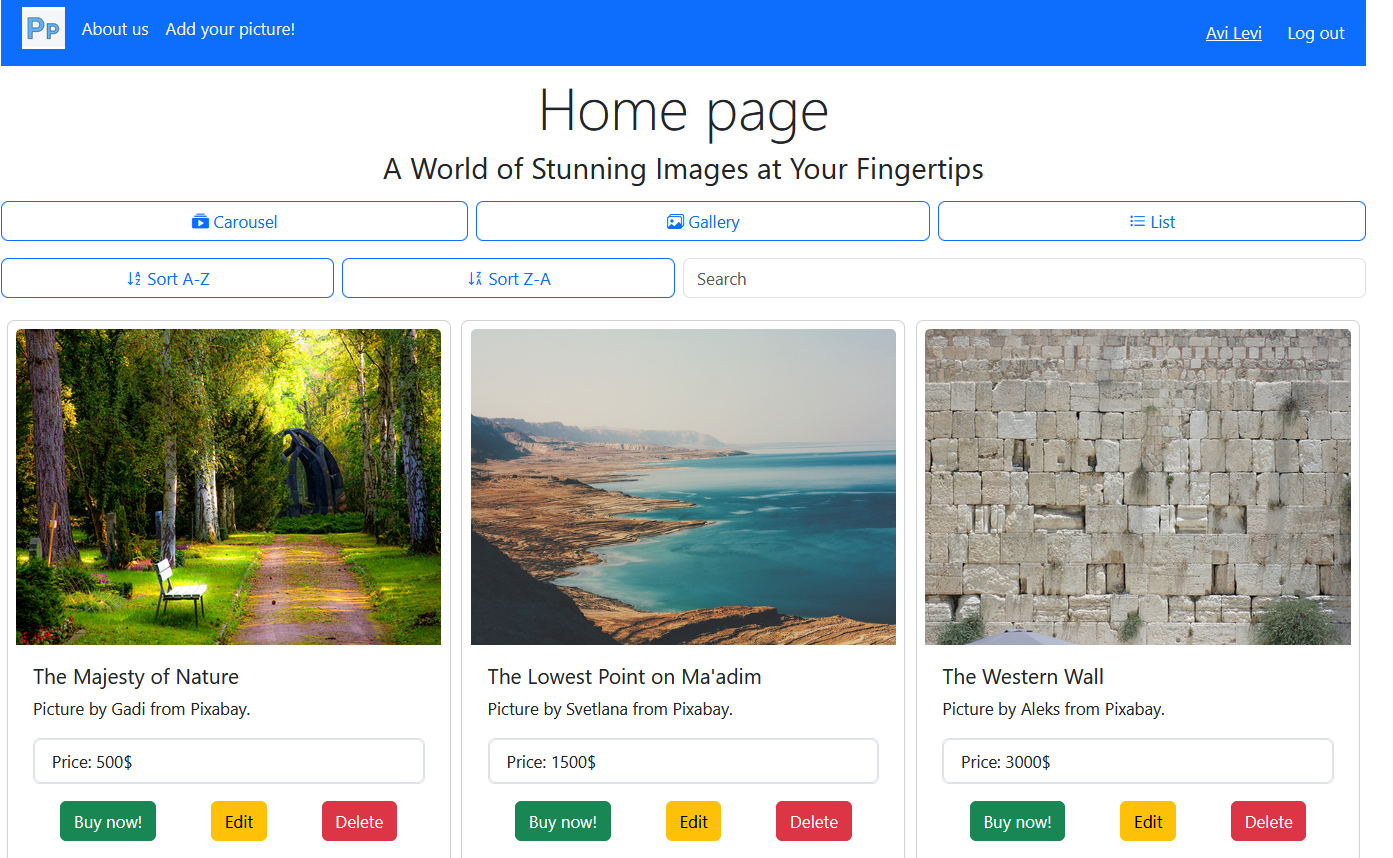
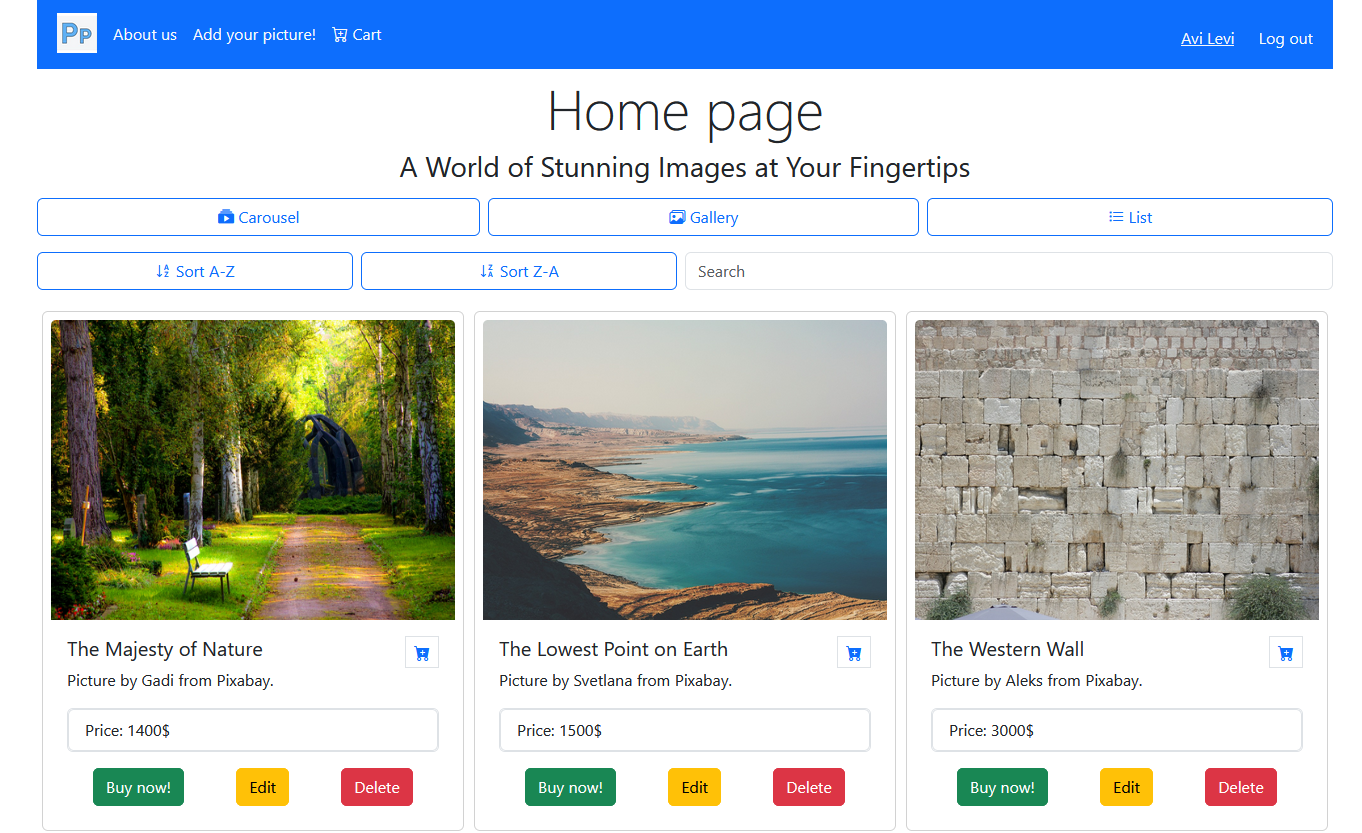
finish on cart page and update the about page

diff --git a/src/components/PicsCards.js b/src/components/PicsCards.js
@@ -7,6 +7,8 @@ let isAdmin;
 
 /* set the cards gallery elemnt */
 const CARDSPICS = document.getElementById("cardsPics");
+/* set the popup elemnt */
+const POPUPCONTAINER = document.getElementById("modularPopup");
 
 /* init the gallery by information from home page (the func is exported to home pagק and run from there) */
 const initialCards = (picsArrFromHomePage, isAdminFromHomePage) => {
@@ -77,16 +79,16 @@ const addPicToCart = (choosenPic) => {
         localStorage.setItem("userToken", JSON.stringify(userToken));
         updateUsersArr(userToken);
         updateCart(userToken)
+        addToCartPopup();
+    } else {
+        addToCartFailedPopup();
     }
 }
 
 const isPicInCart = (pic, cart) => {
-    return cart.find((el) => {
-        // Compare each property of the objects
-        for (const prop in pic) {
-            if (pic[prop] !== el[prop]) {
-                return false;
-            }
+    return cart.find((item) => {
+        if (pic.picId !== item.picId) {
+            return false;
         }
         return true;
     })
@@ -99,6 +101,30 @@ const updateUsersArr = (userToUpdate) => {
         usersArr[index] = JSON.parse(JSON.stringify(userToUpdate));
         localStorage.setItem("users", JSON.stringify(usersArr));
     }
+}
+
+const addToCartPopup = () => {
+    // Remove the "d-none" class from the element with the id "POPUPCONTAINER"
+    POPUPCONTAINER.classList.remove("d-none");
+    // Set the innerHTML of the element with the id "POPUPCONTAINER" to the following string:
+    POPUPCONTAINER.innerHTML = `
+                <div class="text-center p-3 rounded-3">
+                    <button type="button" class="btn-close mb-3" aria-label="Close" id="closeAddPopup"></button>
+                    <h3>The image has been added successfully!</h3>
+                </div>
+            `;
+}
+
+const addToCartFailedPopup = () => {
+    // Remove the "d-none" class from the element with the id "POPUPCONTAINER"
+    POPUPCONTAINER.classList.remove("d-none");
+    // Set the innerHTML of the element with the id "POPUPCONTAINER" to the following string:
+    POPUPCONTAINER.innerHTML = `
+                <div class="text-center p-3 rounded-3">
+                    <button type="button" class="btn-close mb-3" aria-label="Close" id="closeAddPopup"></button>
+                    <h3>The picture is already in the cart</h3>
+                </div>
+            `;
 }
 
 export { initialCards, createCardItem };

diff --git a/public/index.html b/public/index.html
@@ -126,8 +126,8 @@
             </div>
             <!-- Cart page -->
             <div id="cart-page" class="d-none">
-                <h1 class="display-4">Shop Cart</h1>
-                <div id="cartDiv" class="d-flex flex-wrap">
+                <h1 class="display-2 text-center">Shop Cart</h1>
+                <div id="cartDiv" class="d-flex flex-wrap justify-content-around justify-content-md-start gap-2">
                     <div class="alert alert-info" role="alert">
                         Your shopping cart is empty... it's time to start filling!
                     </div>
@@ -406,7 +406,8 @@
                             the different views and enjoy
                             functionality. <br>
                             Plus, you can now also add your awesome photo to our photo library! Is there anything more
-                            wonderful than that?</p>
+                            wonderful than that? <br>
+                            In addition, you can manage your own shopping cart, and add your favorite photos to it</p>
                     </div>
                     <div>
                         <img class="w-100" src="../public/assets/imgs/shotScreenForAboutPage/afterLogin.png"

diff --git a/src/pages/CartPage.js b/src/pages/CartPage.js
@@ -4,6 +4,7 @@ let userToken = JSON.parse(localStorage.getItem("userToken"));
 
 /* set the cards gallery elemnt */
 const CARTDIV = document.getElementById("cartDiv");
+const POPUPCONTAINER = document.getElementById("modularPopup");
 
 window.addEventListener("load", () => {
     if (userToken.cart.length > 0) {
@@ -20,7 +21,7 @@ const updateCart = (newUserToken) => {
 //the function return HTML code for one card by the parameters
 const createCardItem = (isAdmin, url, alt, title, credit, price, picId) => {
     return `
-    <div class="card p-2" style="width: 18rem;">
+    <div class="card p-2">
                         <img src="${url}" class="card-img-top"
                             alt="${alt}" height="300">
                         <div class="card-body">

diff --git a/public/index.css b/public/index.css
@@ -102,6 +102,10 @@ table td a {
   cursor: pointer;
 }
 
+#cart-page .card {
+  flex-basis: 32.5%;
+}
+
 #about-page div {
   flex-basis: 50%;
 }

diff --git a/src/scss/index.scss b/src/scss/index.scss
@@ -3,5 +3,6 @@
 @import "navbar";
 @import "loginPage";
 @import "homePage";
+@import "cartPage";
 @import "aboutUs";
 @import "popup";

diff --git a/src/scss/_cartPage.scss b/src/scss/_cartPage.scss
@@ -1,0 +1,5 @@
+#cart-page {
+    .card {
+        flex-basis: 32.5%;
+    }
+}
